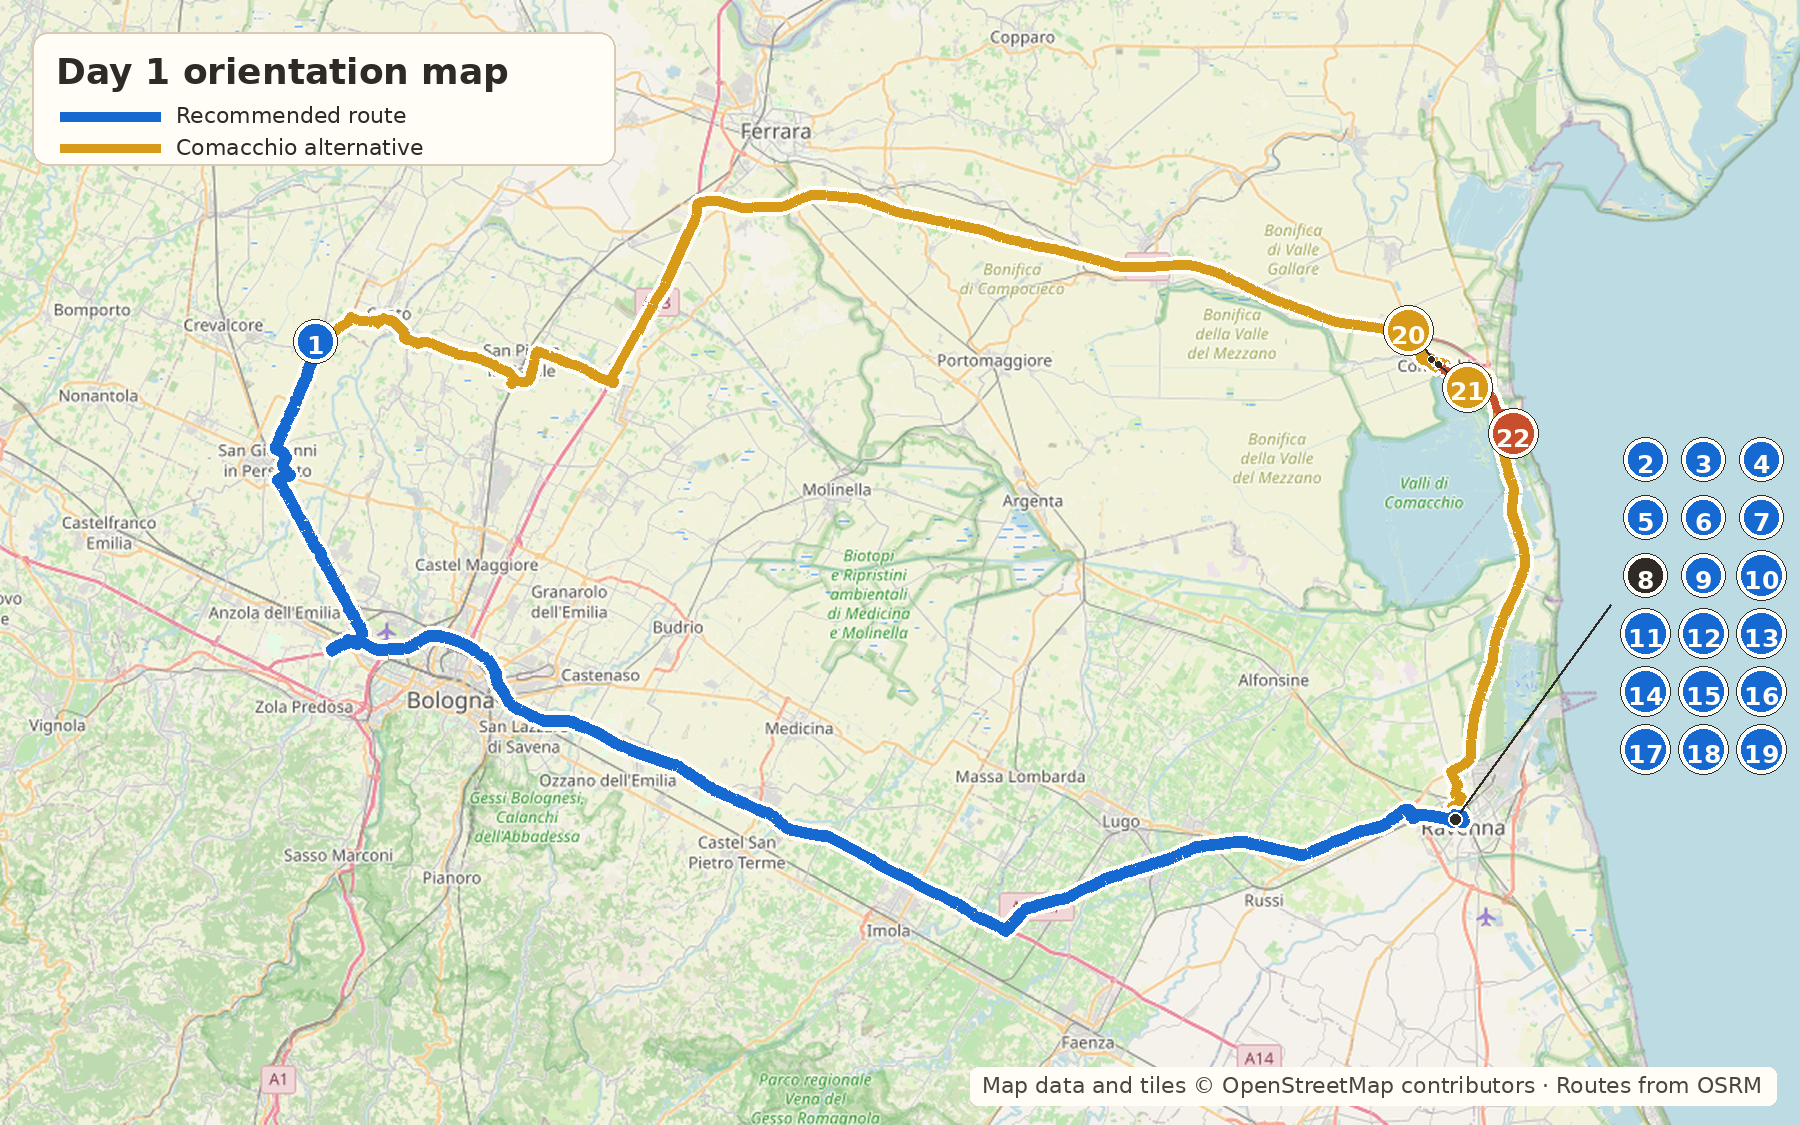
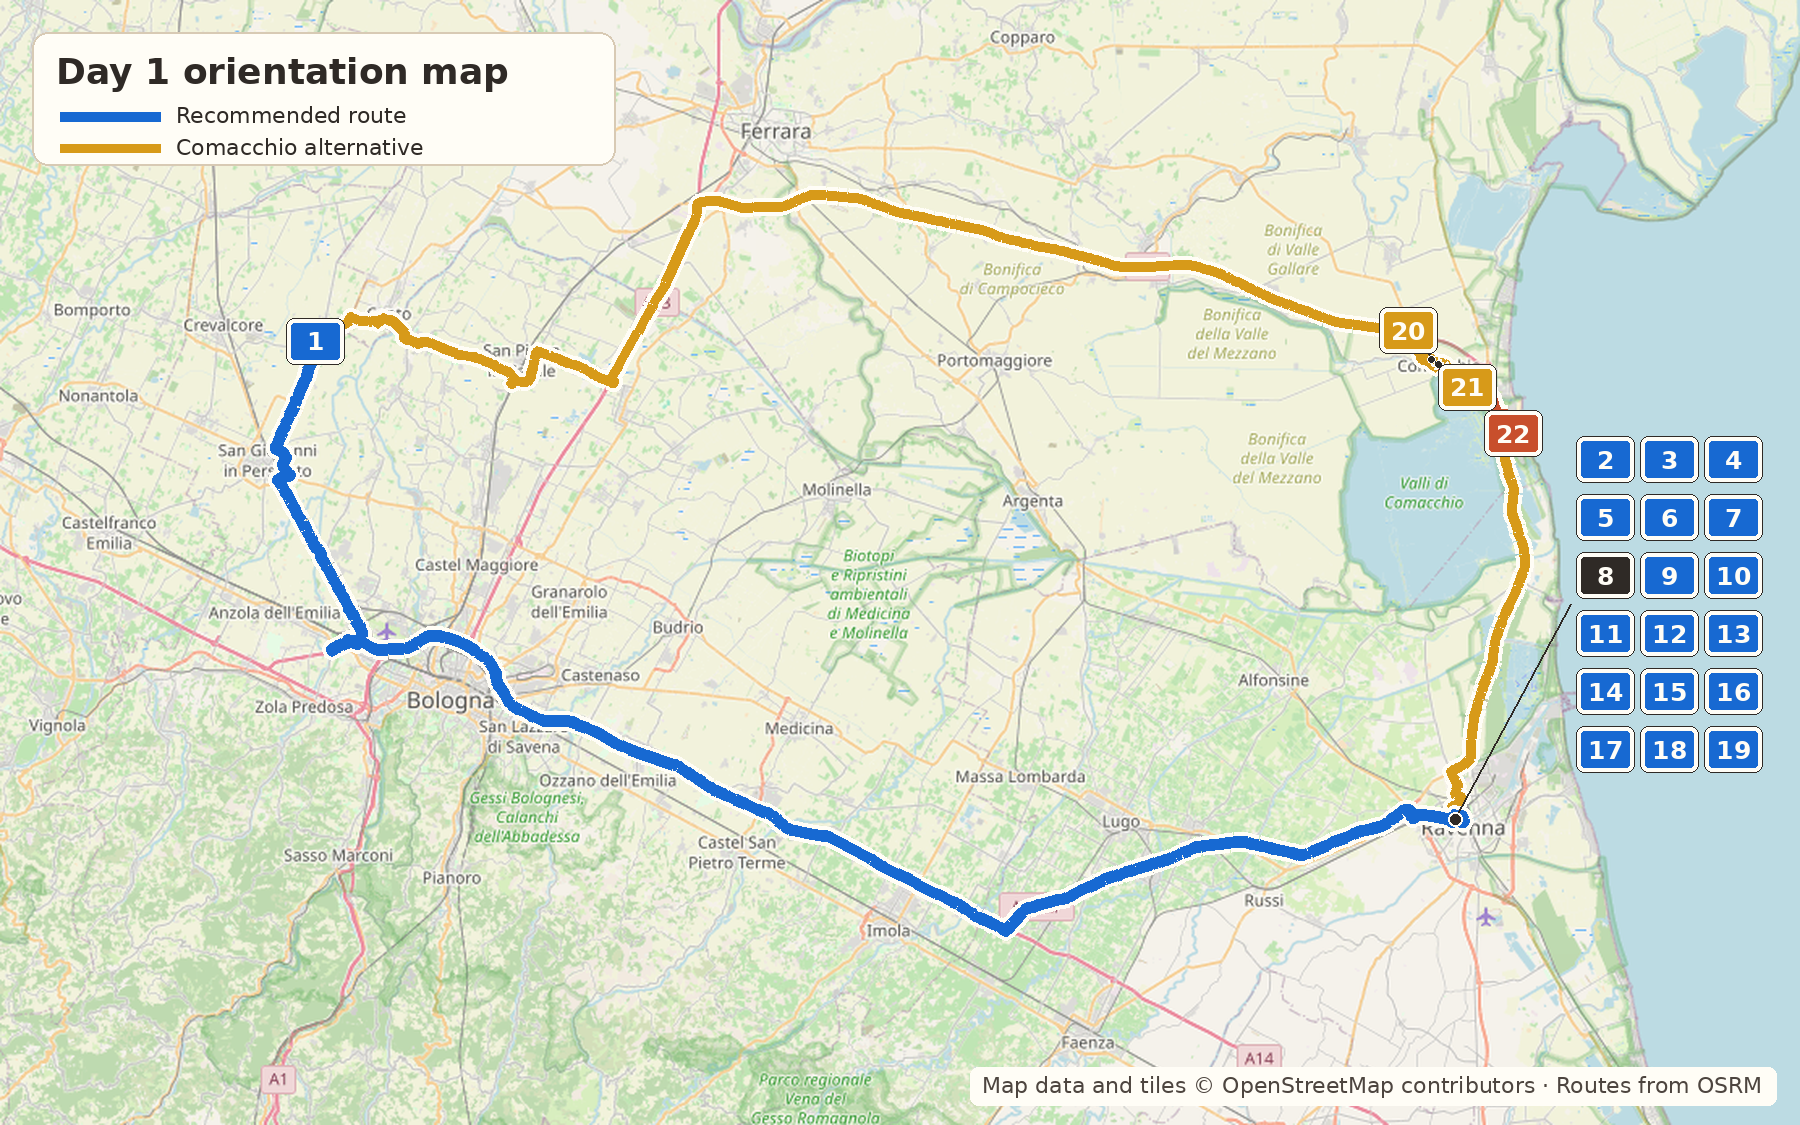
Refine route map marker layout

Changed region(s): [[0.7467, 0.28, 0.9956, 0.6844], [0.1556, 0.28, 0.2178, 0.3422]]

diff --git a/style-editorial.css b/style-editorial.css
@@ -232,11 +232,14 @@ body{
   display:inline-flex;
   align-items:center;
   justify-content:center;
-  width:22px;
+  min-width:30px;
   height:22px;
   margin-right:6px;
-  border-radius:50%;
+  padding:0 5px;
+  border-radius:6px;
   background: var(--royal-blue);
+  border: 2px solid var(--white);
+  outline: 1px solid var(--ink);
   color: var(--white);
   font-family:'IBM Plex Mono', monospace;
   font-size: 11px;
@@ -517,7 +520,7 @@ body{
   counter-increment: poi;
   position:relative;
   min-height:42px;
-  padding-left:34px;
+  padding-left:52px;
   break-inside: avoid-page;
   page-break-inside: avoid;
 }
@@ -529,9 +532,10 @@ body{
   display:flex;
   align-items:center;
   justify-content:center;
-  width:24px;
-  height:24px;
-  border-radius:50%;
+  width:38px;
+  height:26px;
+  padding:0;
+  border-radius:6px;
   background: var(--poi-marker-color);
   border: 3px solid var(--white);
   outline: 1px solid var(--ink);
@@ -719,8 +723,8 @@ table.score td.stars{ color:var(--amber); font-size:17px; letter-spacing:2px; }
   .content{ padding: 0 16px; }
   .card{ padding:14px 16px; }
   .planner-grid{ grid-template-columns: 1fr; }
-  .poi-ref{ width:20px; height:20px; font-size:10px; margin-right:5px; }
-  .poi-legend li{ padding-left:31px; }
+  .poi-ref{ min-width:28px; height:20px; font-size:10px; margin-right:5px; }
+  .poi-legend li{ padding-left:46px; }
   .poi-legend small{ font-size:10px; }
   table.score th, table.score td{ padding:8px 10px; font-size:11px; }
   .photo-finale{ padding: 28px 16px 36px 16px; }

diff --git a/scripts/generate-route-map.py b/scripts/generate-route-map.py
@@ -53,9 +53,9 @@ DAY1 = {
         "ravenna": {
             "anchor": "Ravenna walking core",
             "numbers": list(range(2, 20)),
-            "grid_offset": (190, -360),
+            "grid_offset": (150, -360),
             "columns": 3,
-            "x_step": 58,
+            "x_step": 64,
             "y_step": 58,
         },
     },
@@ -392,13 +392,23 @@ def numbered_marker(draw: ImageDraw.ImageDraw, point: tuple[float, float], numbe
         draw.line((x, y, marker_x, marker_y), fill=(47, 42, 38, 150), width=2)
         draw.ellipse((x - 4, y - 4, x + 4, y + 4), fill=(47, 42, 38, 190), outline="#fffdf6", width=1)
 
-    r = 22 if number < 10 else 25
-    draw.ellipse((marker_x - r, marker_y - r, marker_x + r, marker_y + r), fill=fill, outline="#fffdf6", width=5)
-    draw.ellipse((marker_x - r, marker_y - r, marker_x + r, marker_y + r), outline="#2f2a26", width=1)
     text = str(number)
+    box_w = 58
+    box_h = 46
+    radius = 8
+    box = (
+        marker_x - box_w / 2,
+        marker_y - box_h / 2,
+        marker_x + box_w / 2,
+        marker_y + box_h / 2,
+    )
+    draw.rounded_rectangle(box, radius=radius, fill=fill, outline="#fffdf6", width=5)
+    draw.rounded_rectangle(box, radius=radius, outline="#2f2a26", width=1)
     bbox = draw.textbbox((0, 0), text, font=font)
+    text_w = bbox[2] - bbox[0]
+    text_h = bbox[3] - bbox[1]
     draw.text(
-        (marker_x - (bbox[2] - bbox[0]) / 2, marker_y - (bbox[3] - bbox[1]) / 2 - 2),
+        (marker_x - text_w / 2 - bbox[0], marker_y - text_h / 2 - bbox[1]),
         text,
         fill="#fffdf6",
         font=font,

diff --git a/STANDARDS.md b/STANDARDS.md
@@ -65,6 +65,7 @@ This file documents facts about the PROJECT ITSELF — content rules, design sys
 - The map is for orientation only. Google Maps links/buttons provide live navigation and must remain available for practical routing.
 - Every POI included in that day's visible content must appear on the map. Do not omit cafés, restaurants, shops, historic sites, parking, accommodation, viewpoints, beaches, optional stops, or other named practical stops merely to reduce map clutter.
 - POIs must use compact numbered markers rather than full text labels on the map. Do not place full POI names directly on the map.
+- Prefer rounded-square numbered markers for generated bitmap maps, because they keep single- and double-digit numbers centered and avoid ragged small-circle edges in print.
 - When many POIs belong to one dense stop or walking core, group them as a clean chronological marker stack, grid, or inset connected to one geographic anchor. Avoid fan-shaped leader-line bursts, many crossing lines, overlapping markers, or a line running behind the numbered markers.
 - The numbered markers in the legend must visually match the marker colors used on the map.
 - Every numbered marker must have exactly one matching legend entry beneath the map, and every legend entry must correspond to a visible marker.
